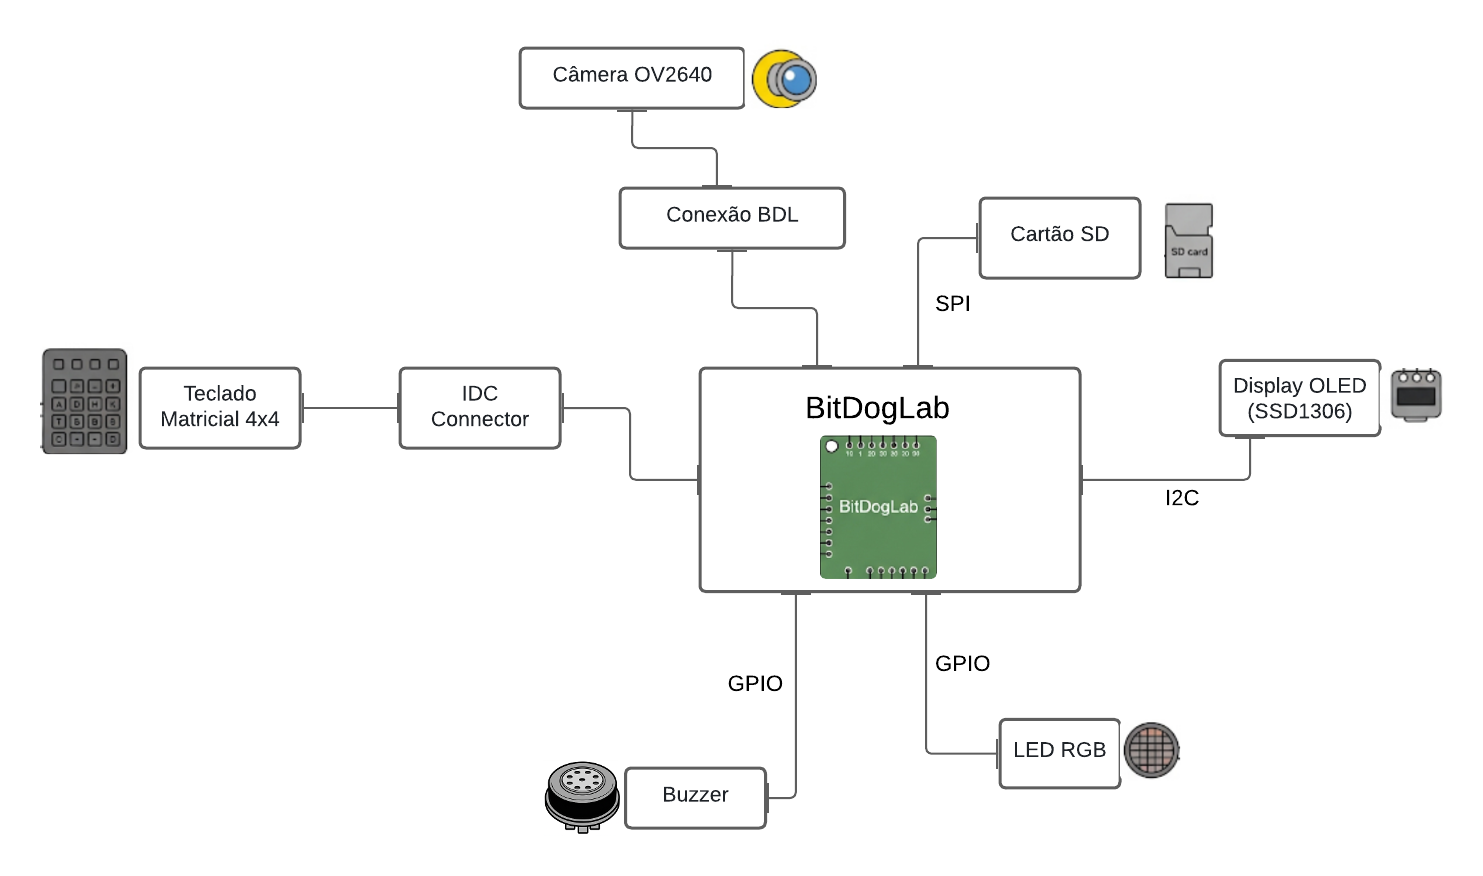
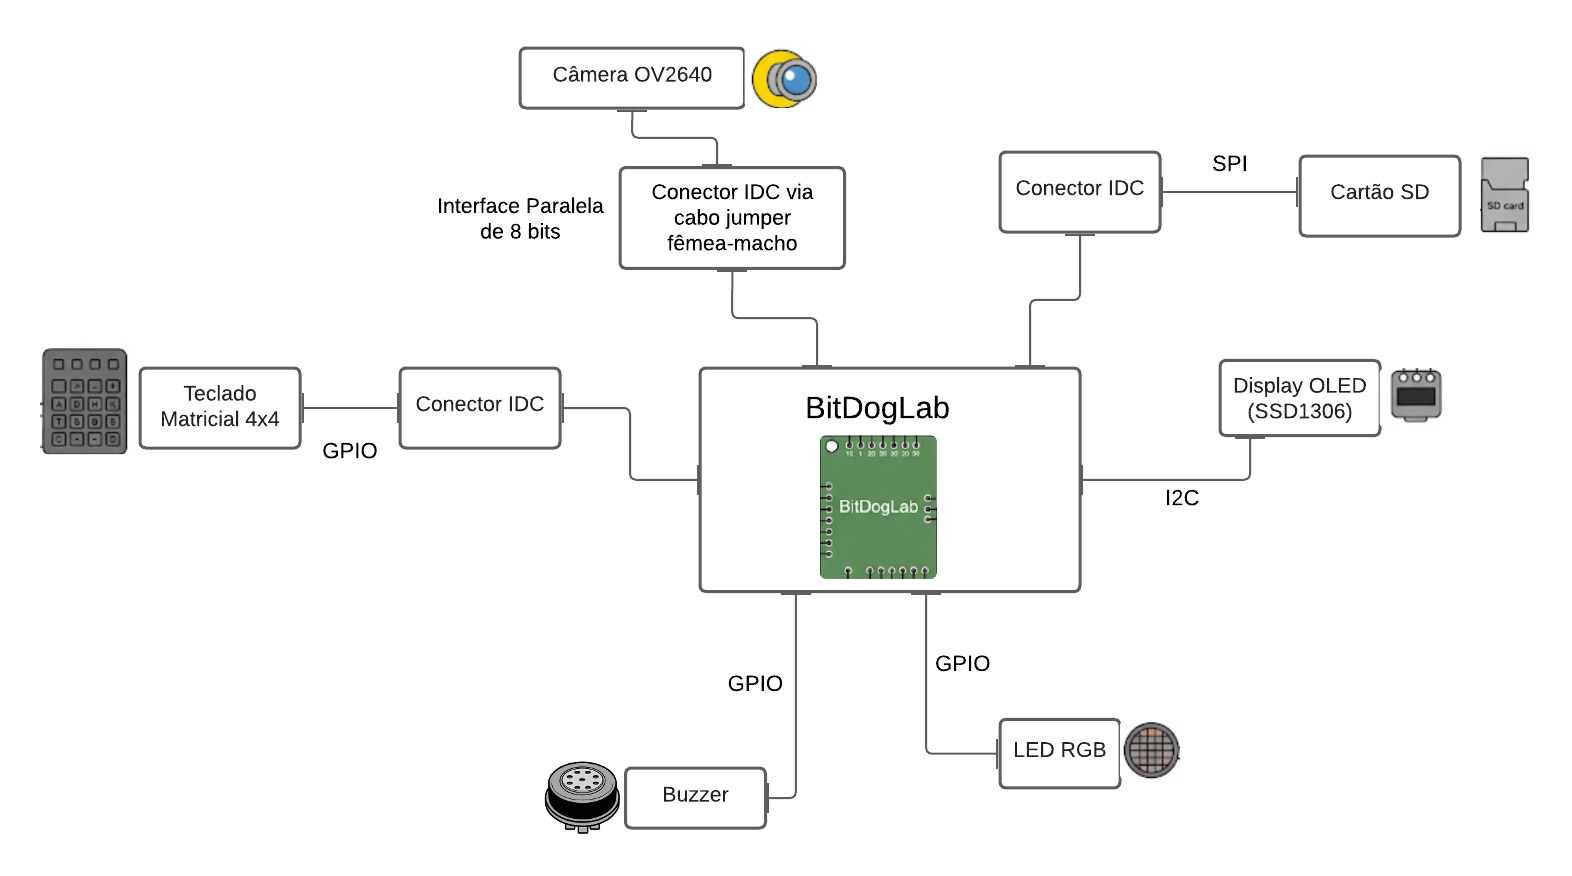
refactor: ajustes no README da segunda entrega

diff --git a/Etapa 2/README.md b/Etapa 2/README.md
@@ -13,10 +13,9 @@ Brasília, Julho de 2025
 ## **Introdução**
 
 Tendo como base a descrição do sistema definida no [documento da 1° etapa](<../Etapa 1/README.md>)
-do projeto final da segunda fase do EmbarcaTech 2025, foram elaborados os seguintes diagramas
-descrevendo o sistema que será implementado.
-Esta documentação foi feita a fim de guiar e formalizar o desenvolvimento do projeto,
-permitindo que o mesmo seja melhor avaliado ou reproduzido por terceiros.
+do projeto final da segunda fase do EmbarcaTech 2025, foram elaborados os diagramas a seguir, os quais descrevem de forma detalhada a estrutura e o funcionamento do sistema que será implementado, especificando a arquitetura do sistema.
+
+Esta documentação tem como objetivo guiar, formalizar e padronizar o desenvolvimento do projeto, permitindo uma avaliação mais precisa, bem como a reprodutibilidade por terceiros interessados.
 
 ---
 
@@ -30,11 +29,11 @@ O **Diagrama de Hardware** detalha os componentes eletrônicos utilizados e suas
 ## **Diagrama de Hardware**
 O sistema embarcado proposto possui uma **arquitetura de hardware centrada na BitDogLab**, responsável por integrar e controlar todos os periféricos necessários ao funcionamento do projeto. 
 
-A entrada principal do sistema é feita por meio de um **Teclado Matricial 4x4**, conectado ao BitDogLab através de um conector IDC. Esse teclado permite que o usuário interaja diretamente com o sistema, inserindo comandos como a operação desejada e a quantidade correspondente.
+A entrada principal do sistema é feita por meio de um **Teclado Matricial 4x4**, conectado ao BitDogLab via GPIO utilizando um conector IDC. Esse teclado permite que o usuário interaja diretamente com o sistema, inserindo comandos como a operação desejada e a quantidade correspondente.
 
-A **Câmera OV2640**, ligada ao BitDogLab via Conexão BDL, é responsável pela captura de imagens e leitura de QR Codes. Essa conexão foi escolhida por sua compatibilidade com o módulo BitDogLab, garantindo um encaixe seguro e confiável.
+A **Câmera OV2640** é responsável pela captura de imagens e leitura de QR Codes, comunicando-se com a BitDogLab através de uma interface paralela de 8 bits. A conexão física é realizada via conector IDC utilizando cabo jumper fêmea-macho, assegurando robustez e compatibilidade elétrica.
 
-Para armazenamento local dos dados, o sistema conta com um **Cartão SD** conectado ao BitDogLab utilizando o protocolo SPI. Isso permite registrar as informações do estoque de forma persistente, possibilitando o funcionamento offline do sistema.
+Para armazenamento local, o sistema utiliza um **Cartão SD** conectado à BitDogLab via protocolo SPI, utilizando um conector IDC, o que permite o registro persistente das informações de estoque e a operação offline do sistema.
 
 A interface com o usuário também é composta por um **Display OLED (SSD1306)**, que se comunica com o BitDogLab via I2C. Esse display exibe informações úteis ao usuário, como o conteúdo do QR Code lido, instruções de operação, confirmações e mensagens de erro.
 
@@ -49,10 +48,10 @@ O diagrama apresentado ilustra de maneira clara as conexões entre os componente
 ---
 
 ## **Blocos Funcionais**
-Como foi mencionado anteriormente, sistema foi projetada de forma modular para garantir clareza, escalabilidade e manutenibilidade. Dessa forma, cada bloco funcional é responsável por uma tarefa específica, e todos são orquestrados por uma unidade central de processamento.
+Como foi mencionado anteriormente, sistema foi projetada de forma modular para garantir clareza, escalabilidade e manutenibilidade. Dessa forma, cada bloco funcional é responsável por uma tarefa específica, e todos são orquestrados por uma unidade central de processamento. Vale destacar que alguns componentes podem integrar mais de um bloco funcional, desempenhando diferentes papéis dentro do sistema.
 A seguir é explicado a funcionalidade de cada bloco:
 * **Módulo de Captura de Imagem**: representado pela Câmera OV2640, esse módulo é responsável pela identificação de produtos através da leitura e decodificação de QR Codes.
-* **Módulo de Interface com Usuário**: permite a interação direta do usuário com o sistema. Por meio dele, é possível especificar a operação desejada (adição ou retirada) e a quantidade de produtos. Ele é representado pelo teclado matricial e o display OLED.
+* **Módulo de Interface com Usuário**: permite a interação direta do usuário com o sistema. Por meio dele, é possível especificar a operação desejada (adição ou retirada) e a quantidade de produtos, além de identificar a ação do usuário exigida pelo sistema. Ele é representado pelo teclado matricial e o display OLED.
 * **Módulo de Processamento**: responsável por executar a lógica de controle principal. Ele processa os dados recebidos dos módulos de entrada, gerencia o banco de dados local, controla os módulos de saída para fornecer feedback ao usuário e gerencia a comunicação com o sistema externo.
 * **Módulo de Feedback**: consiste na interface de saída de informações detalhadas para o usuário, exibindo e indicando dados do produto, instruções de operação, confirmações, mensagens de erro e o resumo das transações. O display OLED, o LED RGB e o Buzzer representam esse módulo.
 * **Módulo de Armazenamento**: responsável por guardar os dados de estoque em um cartão SD, garantindo funcionamento offline e persistência.
